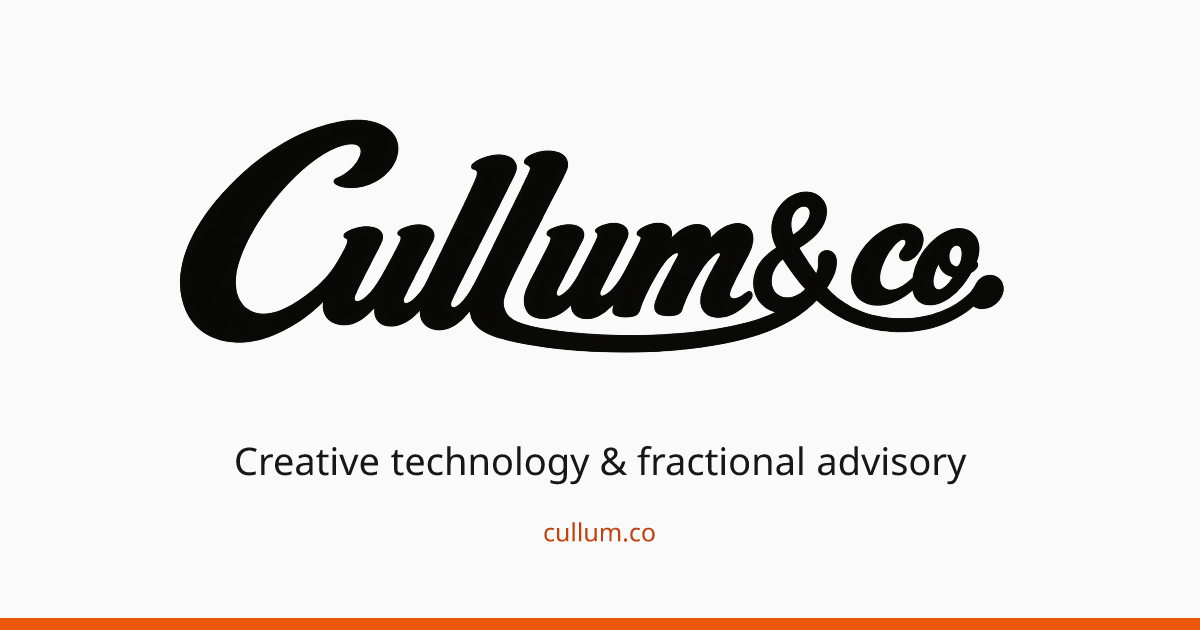
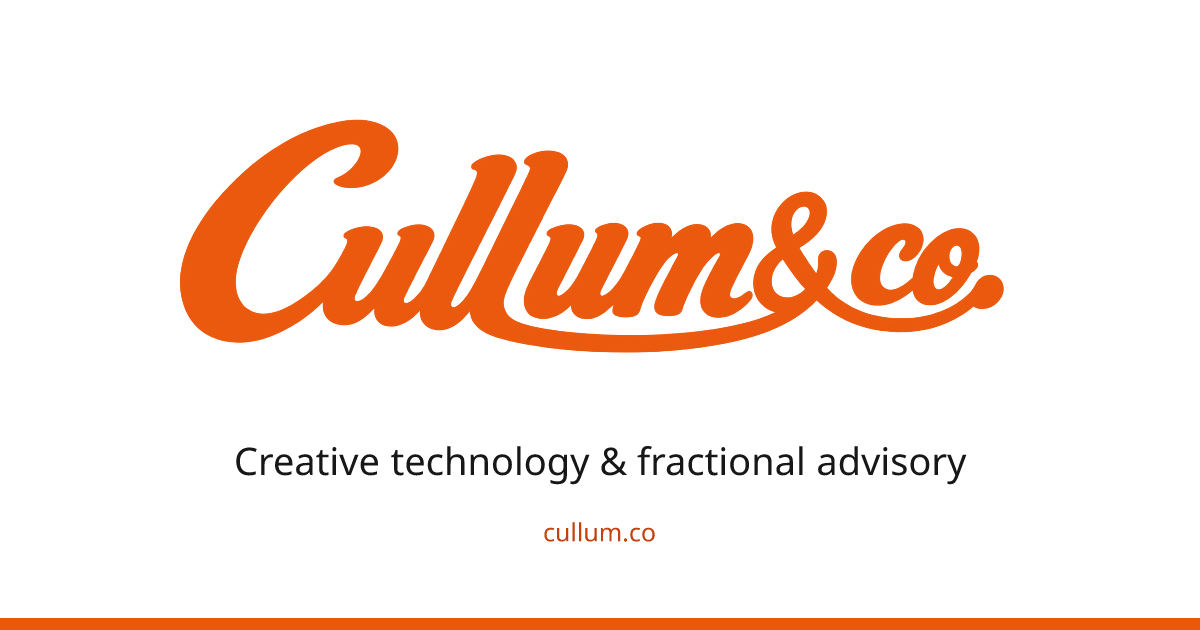
Apply the orange and white wordmark reversal

Changed region(s): [[0.1233, 0.181, 0.8325, 0.573]]

diff --git a/app/components/Navigation.tsx b/app/components/Navigation.tsx
@@ -11,6 +11,7 @@ export function Navigation() {
   const pathname = usePathname();
   const isHomePage = pathname === '/';
   const [mobileMenuOpen, setMobileMenuOpen] = useState(false);
+  const [showWordmark, setShowWordmark] = useState(!isHomePage);
   const [activeSection, setActiveSection] = useState<string>('');
 
   useEffect(() => {
@@ -40,6 +41,24 @@ export function Navigation() {
     return () => observer.disconnect();
   }, [isHomePage]);
 
+  useEffect(() => {
+    if (!isHomePage) {
+      setShowWordmark(true);
+      return;
+    }
+
+    const handleScroll = () => {
+      if (window.scrollY > 100) {
+        setShowWordmark(true);
+        window.removeEventListener('scroll', handleScroll);
+      }
+    };
+
+    window.addEventListener('scroll', handleScroll, { passive: true });
+    handleScroll();
+    return () => window.removeEventListener('scroll', handleScroll);
+  }, [isHomePage]);
+
   const isLinkActive = (href: string) => {
     if (activeSection === '#contact') return false;
     if (href === '/work') return pathname === '/work' || pathname.startsWith('/work/');
@@ -64,10 +83,12 @@ export function Navigation() {
           <Link
             href="/"
             aria-label={`${siteMeta.name} home`}
-            className="shrink-0 rounded-sm focus-visible:outline focus-visible:outline-2 focus-visible:outline-offset-4 focus-visible:outline-orange-600"
+            aria-hidden={!showWordmark && !mobileMenuOpen}
+            tabIndex={showWordmark || mobileMenuOpen ? undefined : -1}
+            className={`shrink-0 rounded-sm transition-opacity duration-300 motion-reduce:transition-none focus-visible:outline focus-visible:outline-2 focus-visible:outline-offset-4 focus-visible:outline-orange-600 ${showWordmark || mobileMenuOpen ? 'opacity-100' : 'opacity-0 pointer-events-none'}`}
             onClick={handleLinkClick}
           >
-            <Wordmark priority />
+            <Wordmark />
           </Link>
 
           {/* Desktop Navigation */}

diff --git a/app/components/Home.tsx b/app/components/Home.tsx
@@ -1,22 +1,38 @@
 'use client';
 
+import { useEffect, useState } from 'react';
 import { homePage } from '@/data/content';
 import { motion } from 'framer-motion';
+import { Wordmark } from './Wordmark';
 
 export function Home() {
+  const [hideHeroWordmark, setHideHeroWordmark] = useState(false);
+
+  useEffect(() => {
+    const handleScroll = () => {
+      if (window.scrollY > 100) {
+        setHideHeroWordmark(true);
+        window.removeEventListener('scroll', handleScroll);
+      }
+    };
+
+    window.addEventListener('scroll', handleScroll, { passive: true });
+    handleScroll();
+    return () => window.removeEventListener('scroll', handleScroll);
+  }, []);
+
   return (
     <section id="home" className="min-h-screen flex items-center bg-gradient-to-br from-orange-600 via-orange-500 to-orange-700 text-white px-8 pt-24 pb-32 animate-gradient bg-[length:200%_200%]">
       <div className="max-w-7xl mx-auto w-full">
         <div className="max-w-5xl">
           <motion.div
             initial={{ opacity: 0, y: 20 }}
-            animate={{ opacity: 1, y: 0 }}
+            animate={{ opacity: hideHeroWordmark ? 0 : 1, y: 0 }}
             transition={{ duration: 0.5 }}
             className="py-8 mb-4"
+            aria-hidden={hideHeroWordmark}
           >
-            <p className="text-2xl md:text-3xl font-semibold tracking-tight">
-              {homePage.hero.title}
-            </p>
+            <Wordmark tone="white" />
           </motion.div>
 
           <motion.h1

diff --git a/app/components/Wordmark.tsx b/app/components/Wordmark.tsx
@@ -1,21 +1,30 @@
-import Image from 'next/image';
 import wordmark from '@/public/images/cullum-and-co-wordmark.png';
 import { siteMeta } from '@/data/content';
 
 export function Wordmark({
   className = 'w-44 md:w-48',
-  priority = false,
+  tone = 'orange',
 }: {
   className?: string;
-  priority?: boolean;
+  tone?: 'orange' | 'white';
 }) {
   return (
-    <Image
-      src={wordmark}
-      alt={siteMeta.name}
-      className={`h-auto ${className}`}
-      priority={priority}
-      unoptimized
+    <span
+      role="img"
+      aria-label={siteMeta.name}
+      className={`wordmark block bg-current ${tone === 'white' ? 'text-white' : 'text-orange-600'} ${className}`}
+      style={{
+        aspectRatio: `${wordmark.width} / ${wordmark.height}`,
+        maskImage: `url("${wordmark.src}")`,
+        WebkitMaskImage: `url("${wordmark.src}")`,
+        maskMode: 'alpha',
+        maskSize: 'contain',
+        WebkitMaskSize: 'contain',
+        maskPosition: 'center',
+        WebkitMaskPosition: 'center',
+        maskRepeat: 'no-repeat',
+        WebkitMaskRepeat: 'no-repeat',
+      }}
     />
   );
 }

diff --git a/app/layout.tsx b/app/layout.tsx
@@ -2,6 +2,7 @@ import type { Metadata } from 'next';
 import { Manrope } from 'next/font/google';
 import { Analytics } from '@vercel/analytics/react';
 import { siteMeta } from '@/data/content';
+import wordmark from '@/public/images/cullum-and-co-wordmark.png';
 import './globals.css';
 
 const manrope = Manrope({
@@ -57,7 +58,7 @@ export default function RootLayout({
         url: siteMeta.url,
         description: siteMeta.tagline,
         email: siteMeta.email,
-        logo: `${siteMeta.url}/images/cullum-and-co-wordmark.png`,
+        logo: `${siteMeta.url}/images/cullum-and-co-wordmark-orange.png`,
         member: { '@id': `${siteMeta.url}/about#scott-cullum` },
       },
       {
@@ -81,6 +82,7 @@ export default function RootLayout({
   return (
     <html lang="en">
       <head>
+        <link rel="preload" as="image" href={wordmark.src} />
         <script
           type="application/ld+json"
           dangerouslySetInnerHTML={{ __html: JSON.stringify(jsonLd) }}

diff --git a/app/globals.css b/app/globals.css
@@ -15,3 +15,10 @@ html {
   font-size: 15px;
 }
 
+@media (forced-colors: active) {
+  .wordmark {
+    forced-color-adjust: none;
+    background-color: CanvasText;
+  }
+}
+

diff --git a/README.md b/README.md
@@ -114,6 +114,6 @@ All rights reserved © 2026 Cullum & Co
 
 ## Brand assets
 
-`public/images/cullum-and-co-wordmark.png` is the original, unmodified transparent wordmark supplied for the Studio One deck (2018 × 779). Keep its aspect ratio and colors, and display it on a light background.
+`public/images/cullum-and-co-wordmark.png` is the original, unmodified transparent wordmark supplied for the Studio One deck (2018 × 779). Keep its aspect ratio and letterforms. The `Wordmark` component uses its exact alpha as a CSS mask: white on the orange hero, and the site's `orange-600` on light navigation and footer backgrounds. The original scroll handoff reveals the header mark after 100px; opening the mobile menu also reveals it. Forced-color mode uses the system text color.
 
-Run `node scripts/generate-brand-assets.mjs` to regenerate the social sharing card and PNG icons from that same artwork using Next.js ImageResponse. The headshot and historical project images remain in their original contexts.
+Run `node scripts/generate-brand-assets.mjs` to regenerate the orange logo metadata asset, social sharing card, and reversed PNG icons from that same alpha mask using Next.js ImageResponse. The generator resolves the site's actual Tailwind orange token. The headshot and historical project images remain in their original contexts.
